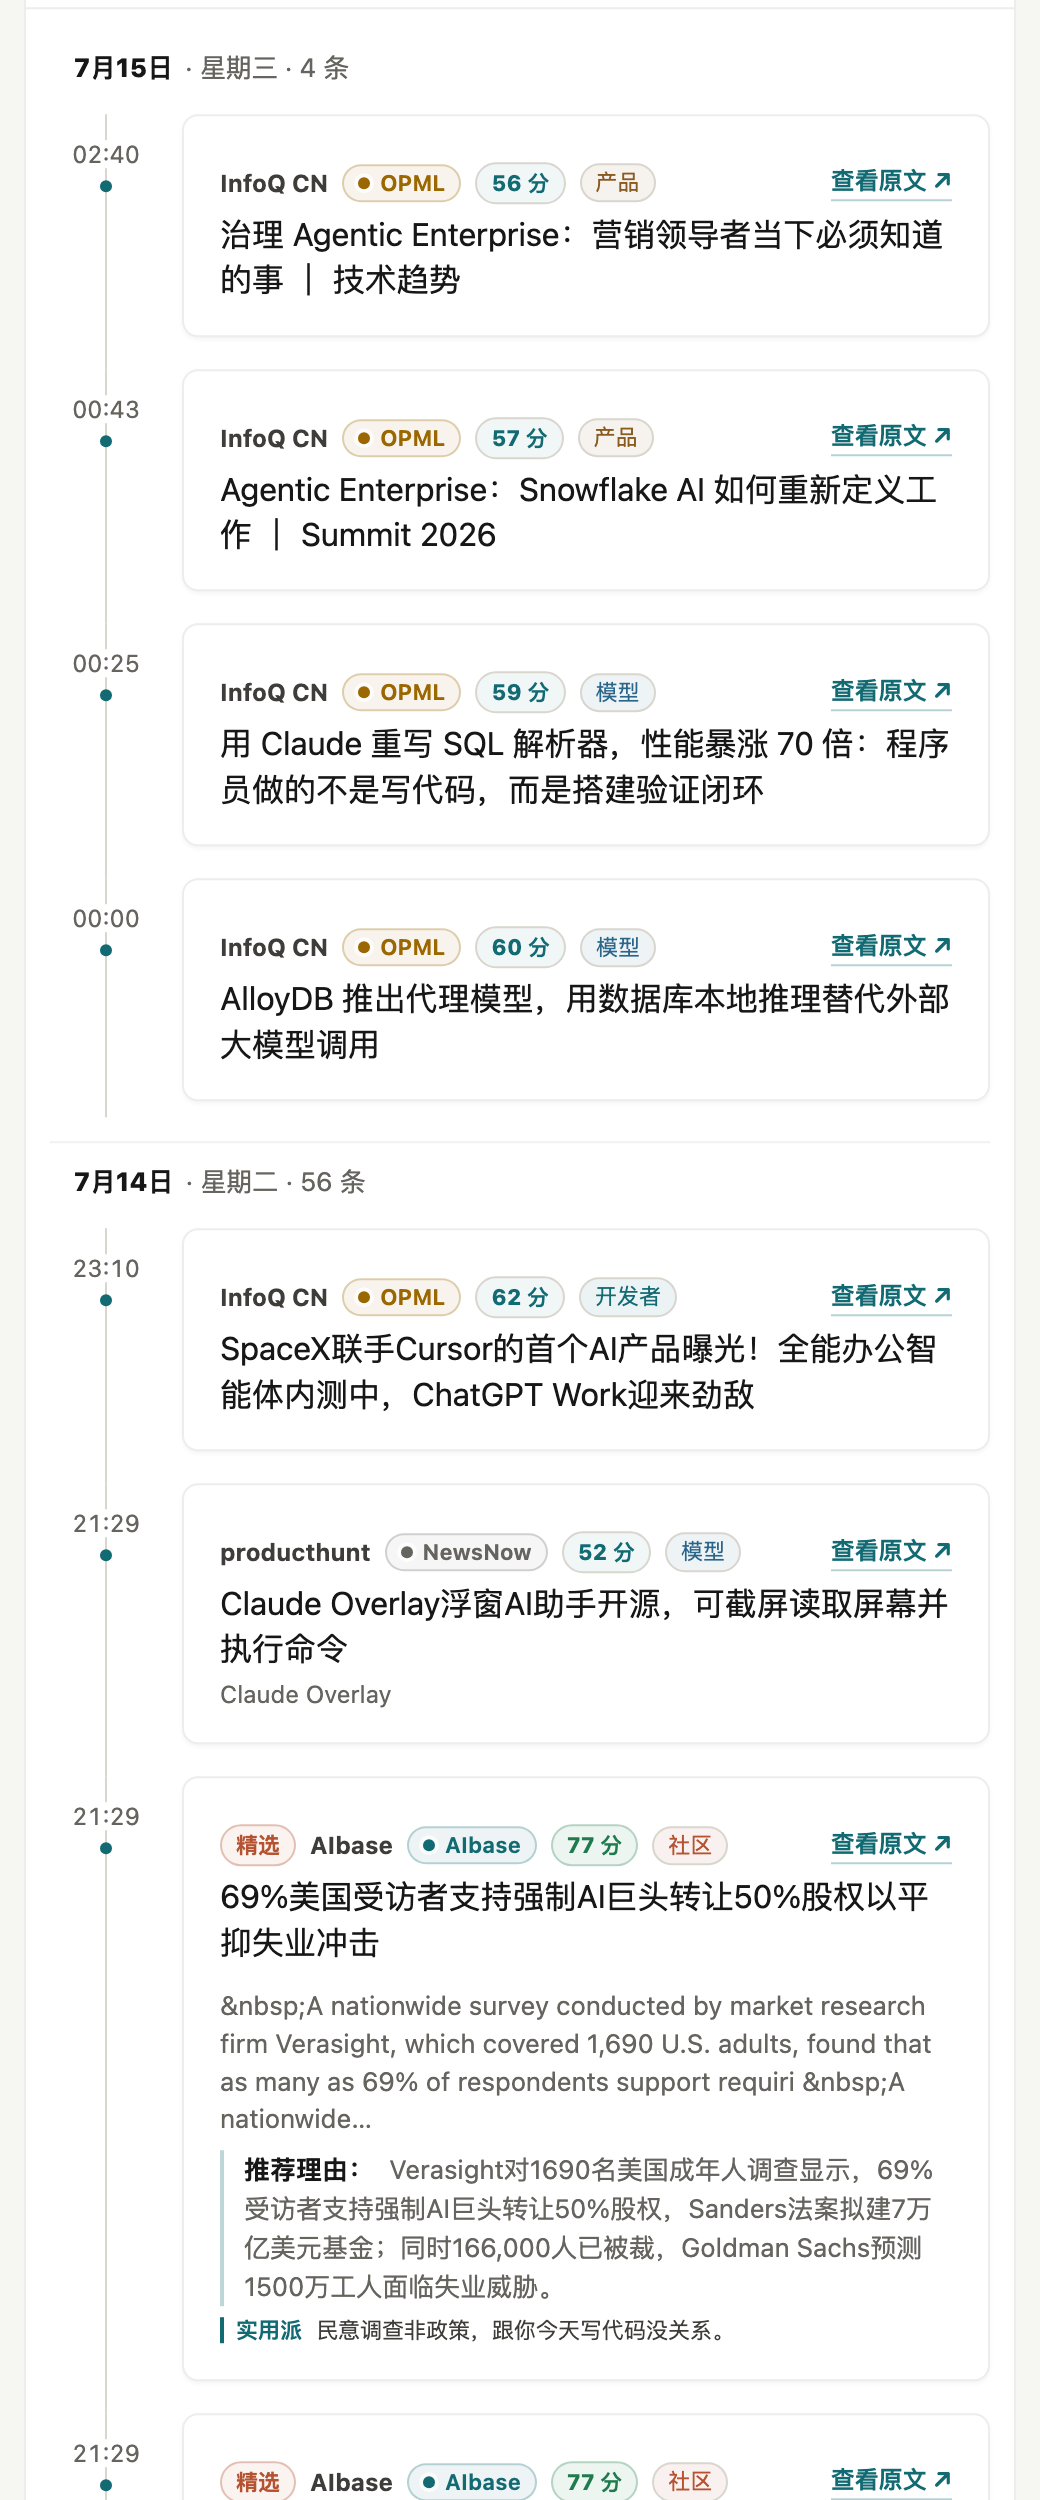
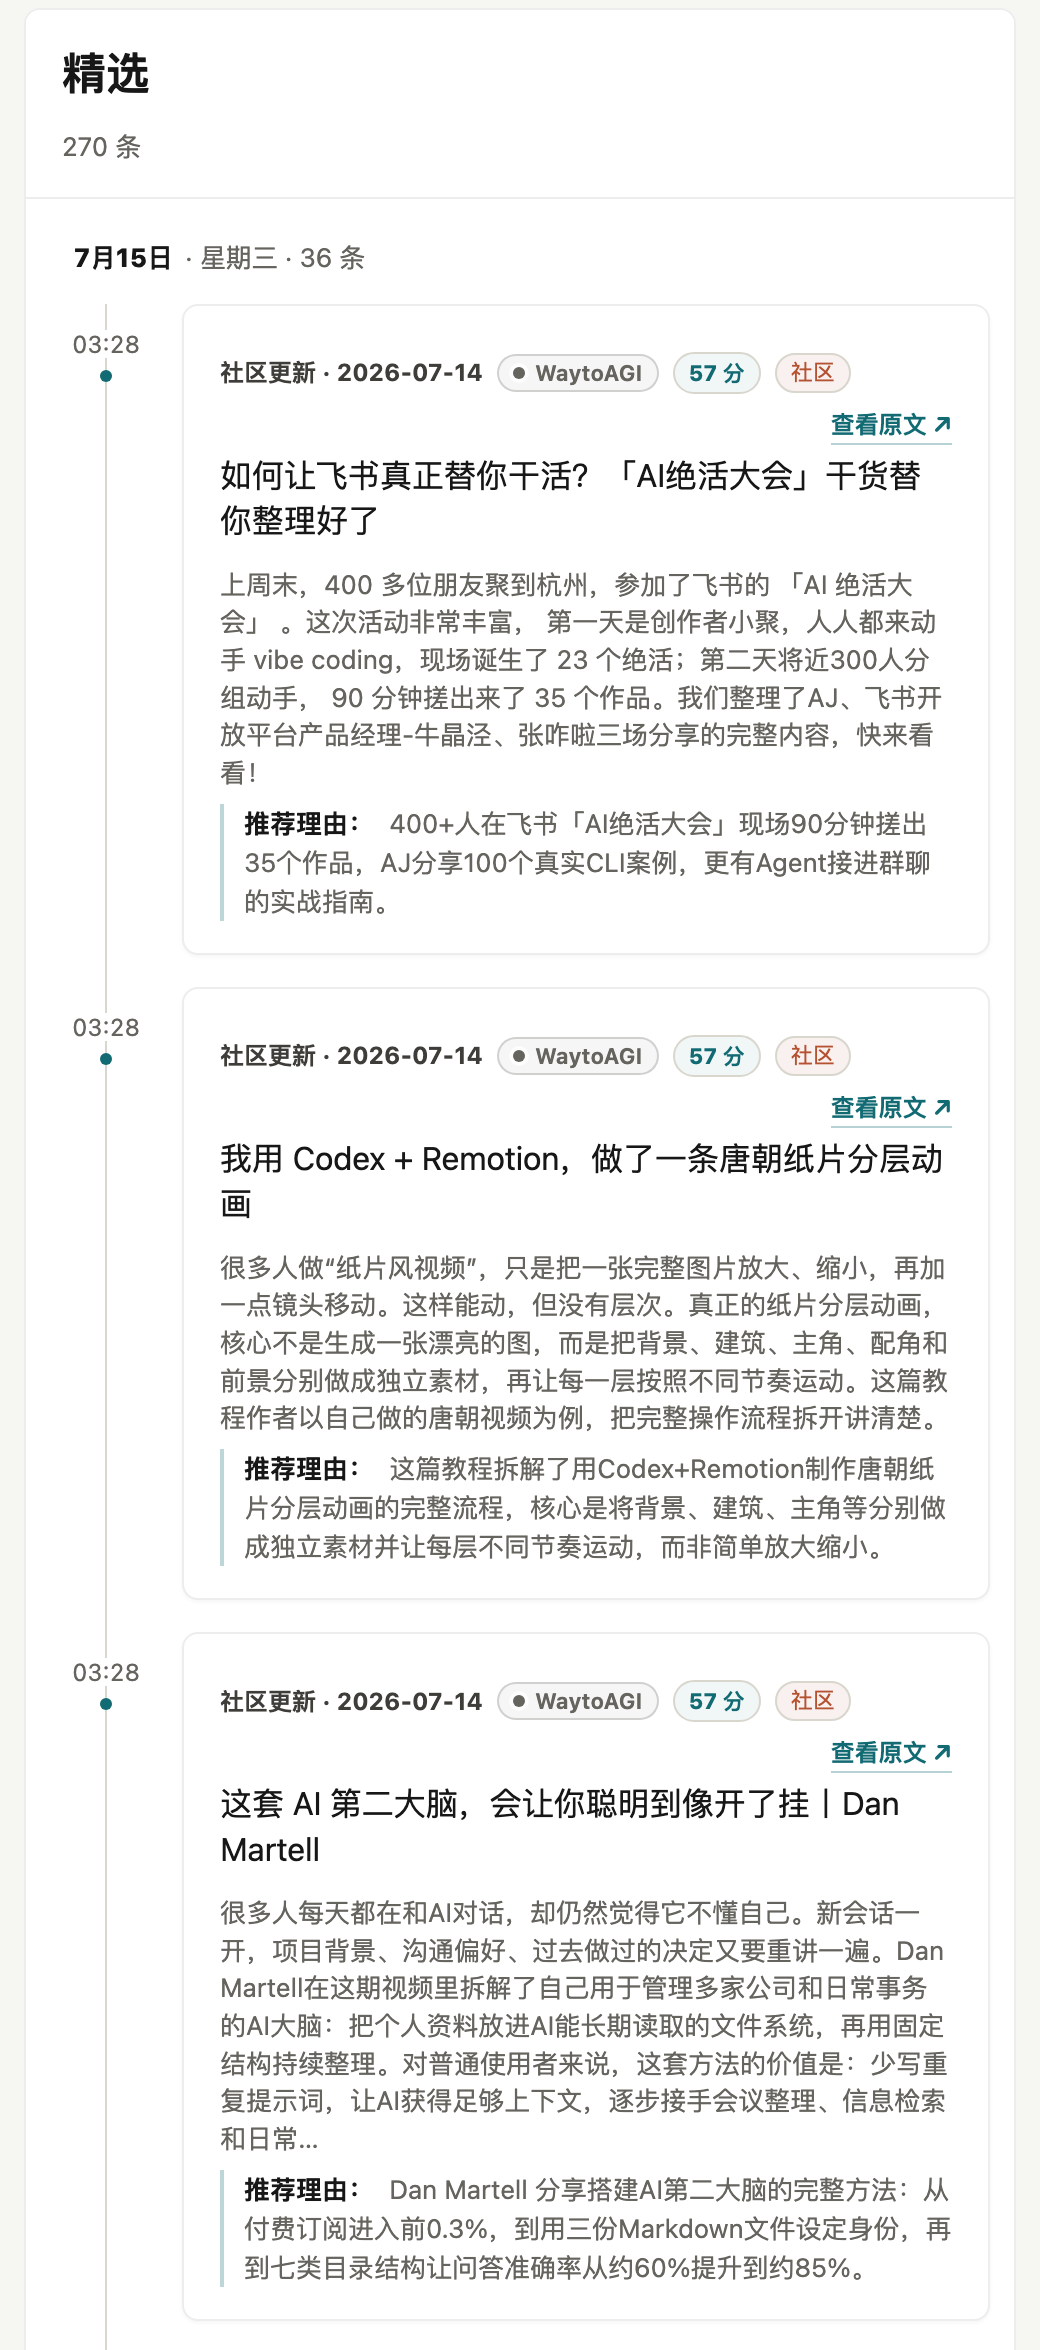
feat(ui): park three-persona web UI behind PERSONA_UI_ENABLED=false
Styling to be redesigned before it returns — archived in docs/ROADMAP.md.
The data pipeline (persona_score.py) and the Skill daily brief are
unaffected; flipping the flag restores the TOP3 board and review lines.

- READMEs (zh/en): drop web-UI persona claims, keep v0.8 history with a
  parked note; remove the TOP3 screenshot.
- Retake radar-v09-timeline.png: previous crop bled into the next section
  header and a dangling partial card; new crop ends on a card boundary.
- Bump asset cache version to 0715b.

diff --git a/assets/app.js b/assets/app.js
@@ -1072,6 +1072,10 @@ function buildEventSourceList(row) {
 
 const PERSONA_NAMES = { pragmatic: "实用派", cynic: "毒舌评论员", "paper-police": "较真党" };
 
+// 三口味 persona 的网页展示暂时下线（2026-07-15 归档，样式待重设计，见 docs/ROADMAP.md）。
+// 数据管线（persona_score.py）与 Skill 端不受影响；置回 true 即恢复 TOP3 板块与卡片锐评行。
+const PERSONA_UI_ENABLED = false;
+
 // 锐评字段（persona_review/persona_id）由 persona_score.py 只写进 daily-brief.json；
 // 主列表/热点榜的 story 对象来自 stories-merged.json，天然没有这两个字段，
 // 必须按 story_id 回查每日精选才能拿到锐评。
@@ -1496,7 +1500,7 @@ function renderItemNode(row) {
   }
 
   const personaSlot = node.querySelector(".persona-slot");
-  if (row.story) {
+  if (row.story && PERSONA_UI_ENABLED) {
     const personaEntry = findTop3PersonaEntry(row.story.story_id);
     const personaPanel = buildPersonaPanel(personaEntry);
     if (personaPanel) {
@@ -1721,7 +1725,7 @@ function top3BoardEntries() {
 // 常沉在几屏之外（用户翻不到，面板等于隐身），所以命中 top3-personas.json 的故事在这里置顶再展示一次。
 function renderTop3Board() {
   if (!top3BoardListEl) return;
-  const rows = top3BoardEntries();
+  const rows = PERSONA_UI_ENABLED ? top3BoardEntries() : [];
   const show = rows.length > 0;
   if (top3BoardWrapEl) top3BoardWrapEl.hidden = !show;
   if (!show) return;

diff --git a/index.html b/index.html
@@ -34,7 +34,7 @@
     <link rel="apple-touch-icon" href="./assets/icons/apple-touch-icon.png" sizes="180x180" />
     <link rel="manifest" href="./site.webmanifest" />
     <script src="./assets/view-mode.js?v=dual-view-0713c" data-root="./"></script>
-    <link rel="stylesheet" href="./assets/styles.css?v=aihot-0715a" />
+    <link rel="stylesheet" href="./assets/styles.css?v=aihot-0715b" />
     <link rel="stylesheet" href="./assets/view-switch.css?v=dual-view-0713b" />
   </head>
   <body>
@@ -186,7 +186,7 @@
     </template>
 
     <script src="https://cdn.jsdelivr.net/npm/gsap@3.13.0/dist/gsap.min.js" integrity="sha384-HOvlOYPIs/zjoIkWUGXkVmXsjr8GuZLV+Q+rcPwmJOVZVpvTSXQChiN4t9Euv9Vc" crossorigin="anonymous" defer></script>
-    <script src="./assets/motion.js?v=aihot-0715a" defer></script>
-    <script src="./assets/app.js?v=aihot-0715a" defer></script>
+    <script src="./assets/motion.js?v=aihot-0715b" defer></script>
+    <script src="./assets/app.js?v=aihot-0715b" defer></script>
   </body>
 </html>

diff --git a/README.en.md b/README.en.md
@@ -34,7 +34,7 @@ Then ask your agent: `What happened in AI today?`
 
 ![ai-radar demo](skills/radar/assets/demo.gif)
 
-**② Read the site directly** → open [news.learnprompt.pro](https://news.learnprompt.pro). It defaults to a mobile view, with a "view" switch in the top-right corner to jump to the classic desktop UI at `/classic/`; you can also force a view with `?view=mobile` / `?view=classic` / `?view=auto`. Both views read the same `data/` directory. Since v0.9 the UI is a single layer: top category tabs (All/Models/Products/Devtools/Industry/Research/Community/Creator), a curated/all-items global toggle, and a chronological main list grouped by date. The "current hotspots" board has no fixed cap. Every curated card carries a one-line "why it matters" review, and stories that make the daily TOP3 are pinned in a dedicated "Today's TOP3" board with three-persona side-by-side reviews (Pragmatist, Cynic, Stickler). When the same event is covered by multiple sources, the card collapses into a "N sources" chip you can expand.
+**② Read the site directly** → open [news.learnprompt.pro](https://news.learnprompt.pro). It defaults to a mobile view, with a "view" switch in the top-right corner to jump to the classic desktop UI at `/classic/`; you can also force a view with `?view=mobile` / `?view=classic` / `?view=auto`. Both views read the same `data/` directory. Since v0.9 the UI is a single layer: top category tabs (All/Models/Products/Devtools/Industry/Research/Community/Creator), a curated/all-items global toggle, and a chronological main list grouped by date. The "current hotspots" board has no fixed cap. Every curated card carries a one-line "why it matters" review. When the same event is covered by multiple sources, the card collapses into a "N sources" chip you can expand.
 
 **③ Fork and own your own filter** → fork this repo, swap in your own OPML sources, edit a markdown file under `personas/` to change the taste, and the data grows on your own GitHub Pages. Jump to the [fork guide](#fork-guide-your-own-radar-in-five-steps).
 
@@ -77,7 +77,7 @@ v0.8's three views (Scout Picks / AI Signal Flow / Hot board) are now one layer:
 - **Category tabs**: All/Models/Products/Devtools/Industry/Research/Community/Creator, mutually exclusive
 - **Curated/all global toggle**: curated reads the merged, AI-relevant, high-value story pool; all reads the broader AI-relevant pool (`latest-24h-all.json`, score >= 0.3). Both modes share the same timeline + date-grouping template
 - **Current hotspots board**: no fixed item cap — it shows however many stories clear the multi-source heat threshold, kept separate from the main list
-- **Real, pipeline-generated reviews**: the one-line "why it matters" review on curated cards is now written by the pipeline itself — for items that already passed the AI-relevance filter, it fetches the full article and has DeepSeek write one sentence on why it's worth reading (requires `DEEPSEEK_API_KEY`). When there's no real review, the frontend simply hides that block instead of showing a template sentence. Stories that make the daily TOP3 still expand inline into all three persona reviews side by side, in a separate section of the card
+- **Real, pipeline-generated reviews**: the one-line "why it matters" review on curated cards is now written by the pipeline itself — for items that already passed the AI-relevance filter, it fetches the full article and has DeepSeek write one sentence on why it's worth reading (requires `DEEPSEEK_API_KEY`). When there's no real review, the frontend simply hides that block instead of showing a template sentence
 - **Same-event expansion**: when 2+ sources cover the same event, the card shows an "N sources" chip — expand it to see each source's own title, outlet, and relative time
 - **Title enhancement**: when a title is too terse or jargon-heavy, the pipeline micro-crawls the source page for context (falling back to r.jina.ai on direct-fetch failure) and has an LLM rewrite it. Requires `DEEPSEEK_API_KEY`; without it, titles stay as-is and nothing else breaks
 - **Source-quality hardening**: the zeli aggregator (Hacker News 24h hot list) no longer gets a blanket allowlist pass — it now goes through the same AI-relevance scoring as every other aggregator. Bilingual title translation also gained validation: refusal-style outputs (e.g. "sorry, I can't process link content") and degenerate translations are detected and rejected, falling back to the original title instead of showing garbled text
@@ -85,6 +85,8 @@ v0.8's three views (Scout Picks / AI Signal Flow / Hot board) are now one layer:
 - **aggregator sub-source classification**: items from aggregator sites get a further breakdown chip — X / WeChat / HN / RSS — right after the channel chip
 
 ## v0.8: three-persona reviews
+
+> Note: the **web display** of the three personas is temporarily parked (styling to be redesigned — see [docs/ROADMAP.md](docs/ROADMAP.md)); the data pipeline still scores and reviews every day, and the Skill daily brief is unaffected.
 
 Whether a story matters depends on who you are. v0.8 gives the daily brief swappable "tastes":
 
@@ -94,10 +96,7 @@ Whether a story matters depends on who you are. v0.8 gives the daily brief swapp
 | **Cynic** | `cynic` | Punctures marketing spin and hype — sarcastic, but grounded in facts |
 | **Stickler** | `paper-police` | Only trusts papers/code/benchmarks; zero tolerance for "coming soon" |
 
-- The daily 20 picks are scored and reviewed by the default persona (each curated card carries its one-line review); stories that make the daily TOP3 are pinned in the homepage "Today's TOP3" board with all three personas side by side — one story, three angles.
-
-![Today's TOP3 three-persona side-by-side reviews screenshot](assets/screenshots/radar-v09-top3-personas.png)
-
+- The daily 20 picks are scored and reviewed by the default persona; stories that make the daily TOP3 get scored by all three personas — one story, three angles (the reviews live in `data/daily-brief.json` and `data/top3-personas.json`, consumed directly by the Skill brief).
 - Each persona is one markdown file under `personas/` (frontmatter + system prompt). Change the taste by editing one file; create a new one following [personas/README.md](personas/README.md) and PR it to join the built-in list.
 - LLM reviews require a `DEEPSEEK_API_KEY` upstream. Without it the whole pipeline still runs — it degrades gracefully to rule-based scores, and both the site and the skill keep working.
 
@@ -126,7 +125,7 @@ It is closer to a lightweight news pipeline: source judgement, fetching, dedupli
[1 lines of base64/hex data omitted]
 - Use the curated/all global toggle: curated shows high-value story timelines; switch to all when you need to backfill or search the broader AI-relevant pool
 - The main list is sorted newest-first and grouped by day, so you can scan what happened today vs. yesterday at a glance; "current hotspots" is a separate, uncapped board for what's hottest right now
-- Every curated card carries a one-line "why it matters" review, written by the pipeline itself — the block is simply hidden when there's no real review; stories in the daily TOP3 expand inline into all three persona reviews
+- Every curated card carries a one-line "why it matters" review, written by the pipeline itself — the block is simply hidden when there's no real review
 - When the same event is covered by multiple sources, the card shows an "N sources" chip — expand it to read each source's own title instead of clicking through duplicates
 - If a title reads like jargon or an abbreviation, sites with `DEEPSEEK_API_KEY` configured will show the LLM-rewritten, more complete version
 - Locate updates quickly with the specific-source filter and keyword search

diff --git a/docs/ROADMAP.md b/docs/ROADMAP.md
@@ -1,5 +1,13 @@
 # AI News Radar Roadmap
 
+## Parked — 三口味 persona 网页 UI（2026-07-15 归档）
+
+v0.8–v0.9 期间网页端曾上线「今日 TOP3 · 三口味锐评」置顶板块与精选卡片的单条锐评行，因样式不满意在 v0.9 发布前暂时下线，待重新设计后回归。
+
+- 开关：`assets/app.js` 的 `PERSONA_UI_ENABLED`（现为 `false`，置回 `true` 即恢复板块与锐评行，渲染代码完整保留）。
+- 不受影响：数据管线（`scripts/persona_score.py` 每轮照常生成 `data/daily-brief.json` 的 persona 字段与 `data/top3-personas.json`）、Skill 端日报的三口味点评。
+- 回归前要解决的：三列并排面板与卡片视觉融合度、锐评行与推荐理由的层级关系、口味名称/分数的展示样式。
+
 ## v0.3.0 — Source Overlap Check
 
 Goal: before adding a new public default source, evaluate whether its recent items are mostly duplicates of the existing source set.